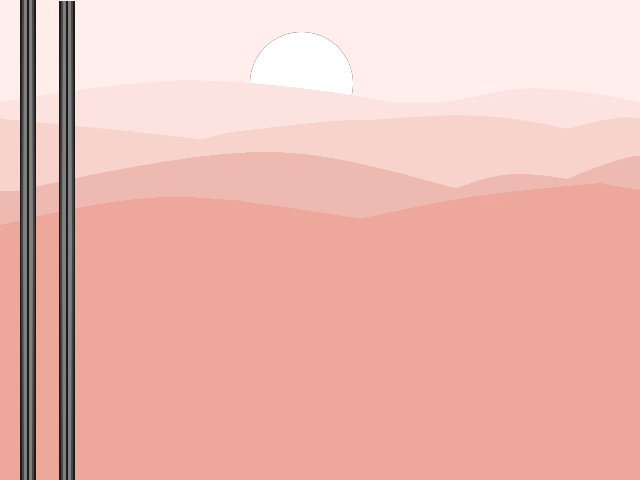
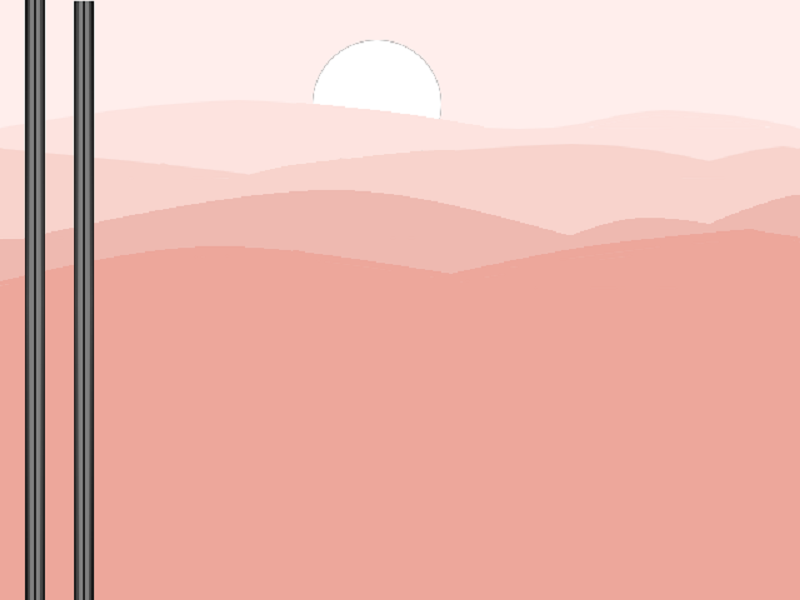
resized to make map and title bigger

Changed region(s): [[0.0312, 0.0, 0.0625, 1.0], [0.0938, 0.4375, 0.125, 0.5625], [0.0938, 0.0, 0.125, 0.0312]]

diff --git a/src/main.js b/src/main.js
@@ -36,8 +36,8 @@ let physConfig = {
 
 let config = {
     type: Phaser.CANVAS,
-    width: 640,
-    height: 480,
+    width: 800,
+    height: 600,
     physics: physConfig,
     scene: [Menu, Play, GameOver]
 }
